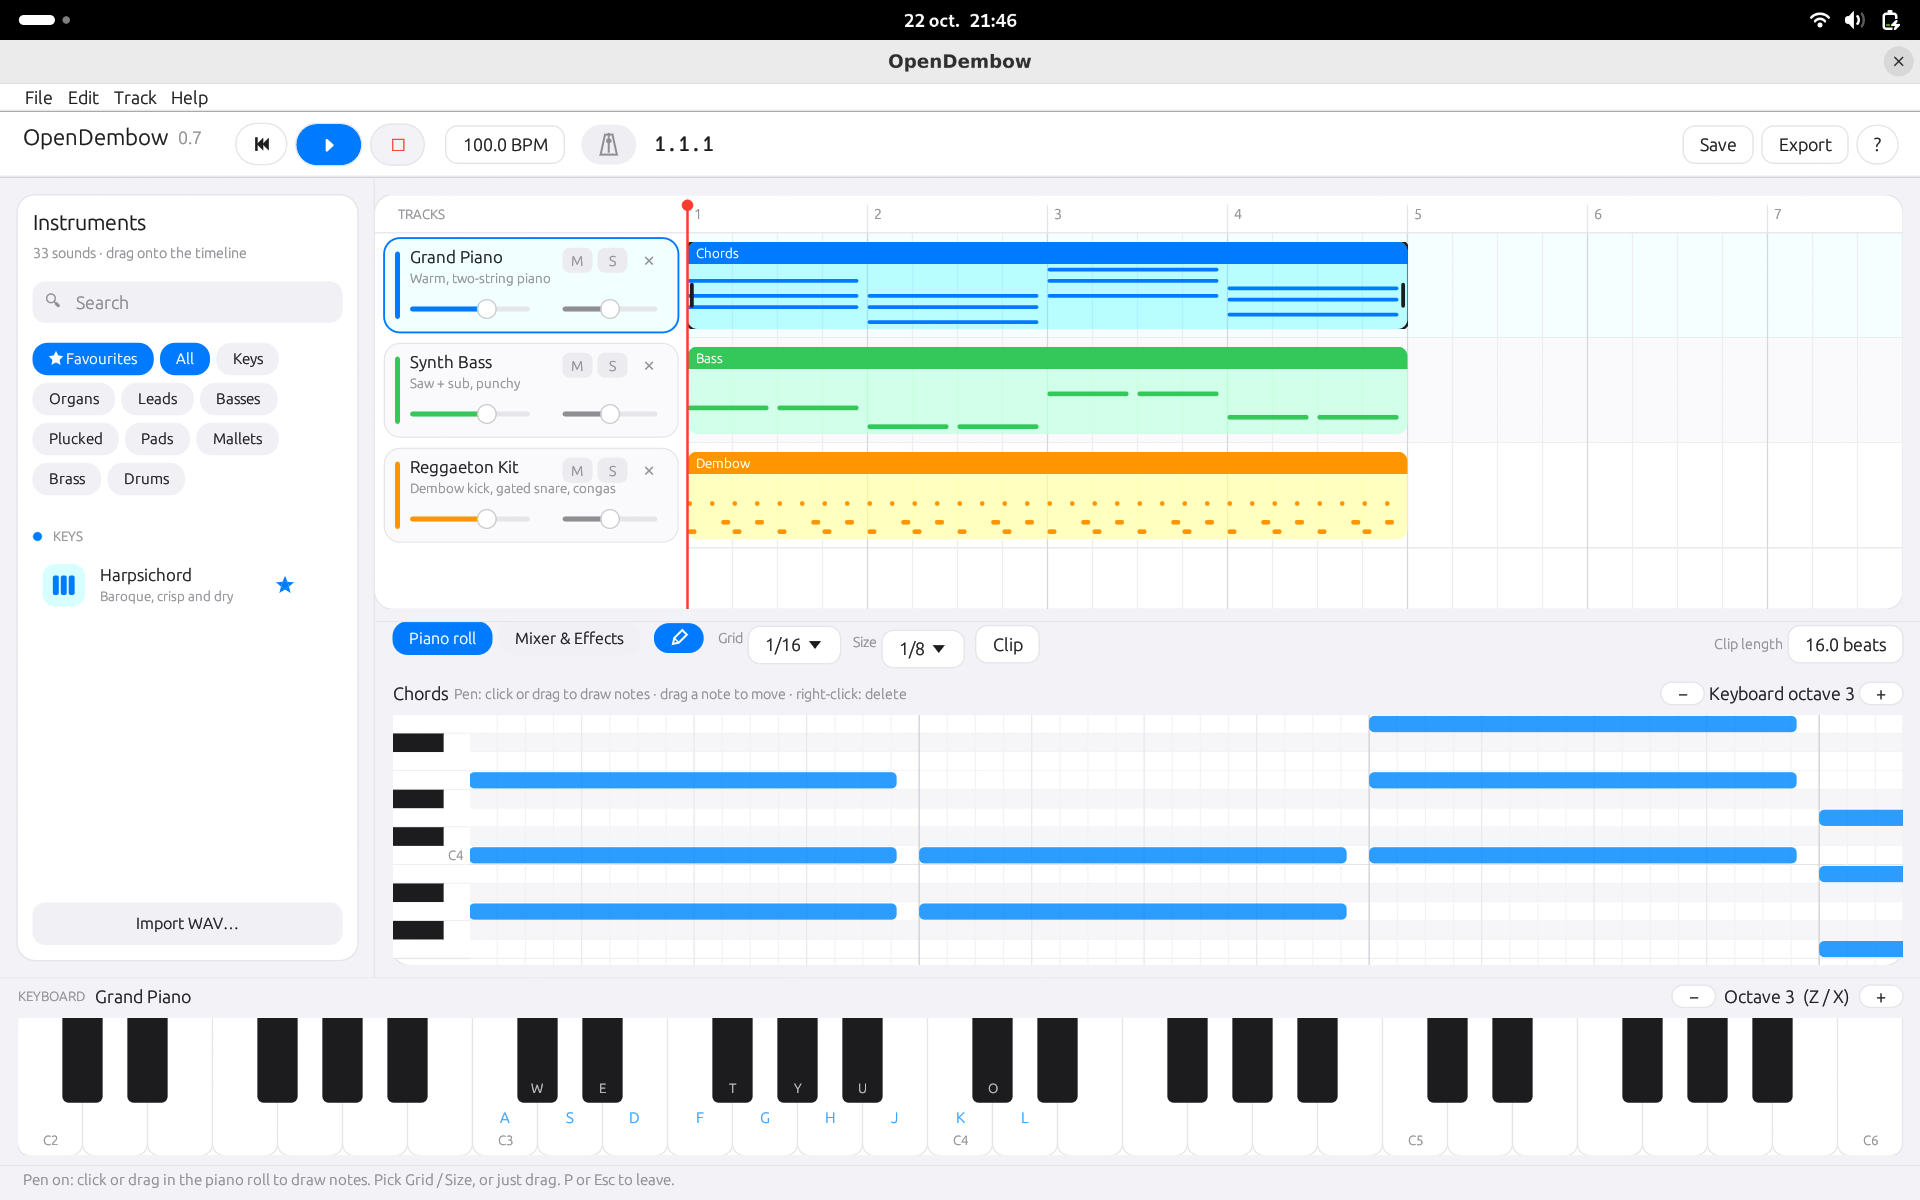
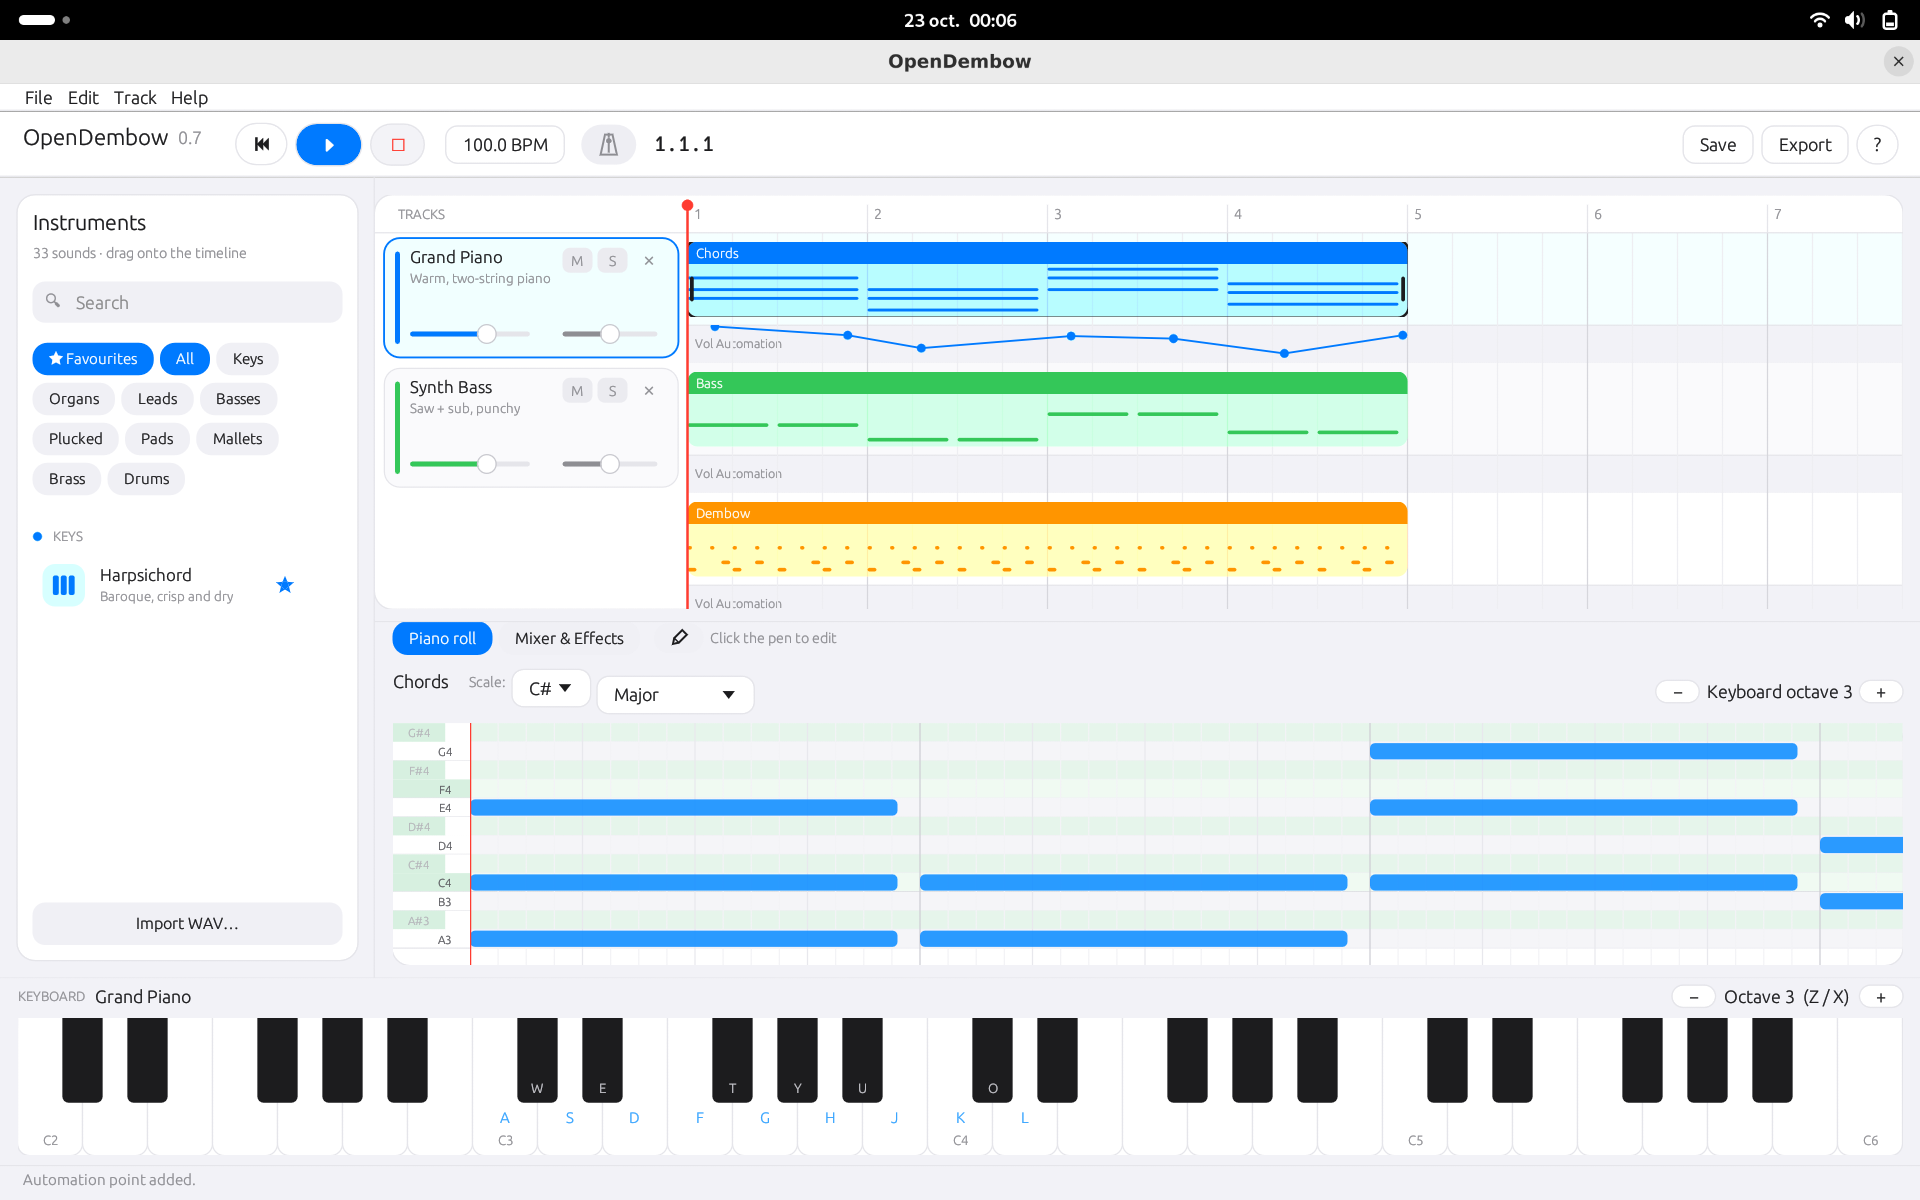
version 0.7

Changed region(s): [[0.1875, 0.2158, 1.0, 0.8017], [0.0625, 0.9558, 0.125, 0.9867], [0.5, 0.0, 0.5312, 0.0308]]

diff --git a/src/pianoroll.rs b/src/pianoroll.rs
@@ -15,8 +15,64 @@ pub fn size_label(v: f64) -> &'static str {
     SIZES.iter().find(|(_, s)| (s - v).abs() < 1e-9).map(|(l, _)| *l).unwrap_or("custom")
 }
 
+#[derive(Clone, Copy, PartialEq, Eq)]
+enum Scale {
+    All,
+    Major,
+    Minor,
+    PentatonicMajor,
+    PentatonicMinor,
+    Blues,
+}
+
+impl Scale {
+    fn name(&self) -> &'static str {
+        match self {
+            Scale::All => "All (Chromatic)",
+            Scale::Major => "Major",
+            Scale::Minor => "Minor",
+            Scale::PentatonicMajor => "Pentatonic Major",
+            Scale::PentatonicMinor => "Pentatonic Minor",
+            Scale::Blues => "Blues",
+        }
+    }
+}
+
+#[derive(Clone)]
+struct RollScaleState {
+    scale: Scale,
+    root: u8, // 0 = C, 1 = C#, etc.
+}
+
+impl Default for RollScaleState {
+    fn default() -> Self {
+        Self { scale: Scale::All, root: 0 }
+    }
+}
+
+const NOTE_NAMES: [&str; 12] = ["C", "C#", "D", "D#", "E", "F", "F#", "G", "G#", "A", "A#", "B"];
+
+fn is_in_scale(key: u8, scale: Scale, root: u8) -> bool {
+    if scale == Scale::All {
+        return true;
+    }
+    let semitone = (key as i32 - root as i32).rem_euclid(12);
+    let intervals: &[i32] = match scale {
+        Scale::All => &[0, 1, 2, 3, 4, 5, 6, 7, 8, 9, 10, 11],
+        Scale::Major => &[0, 2, 4, 5, 7, 9, 11],
+        Scale::Minor => &[0, 2, 3, 5, 7, 8, 10],
+        Scale::PentatonicMajor => &[0, 2, 4, 7, 9],
+        Scale::PentatonicMinor => &[0, 3, 5, 7, 10],
+        Scale::Blues => &[0, 3, 5, 6, 7, 10],
+    };
+    intervals.contains(&semitone)
+}
+
 impl App {
     pub fn ui_roll(&mut self, ui: &mut egui::Ui) {
+        let sid = egui::Id::new("piano_roll_scale_state");
+        let mut st: RollScaleState = ui.ctx().data_mut(|d| d.get_temp(sid)).unwrap_or_default();
+
         let Some((t, c)) = self.sel_midi() else {
             ui.add_space(8.0);
             let (rect, _) = ui.allocate_exact_size(ui.available_size(), Sense::hover());
@@ -36,15 +92,32 @@ impl App {
         let col = PALETTE[self.project.tracks[t].color % 8];
 
         ui.horizontal(|ui| {
-            ui.spacing_mut().item_spacing.x = 4.0;
+            ui.spacing_mut().item_spacing.x = 6.0;
             ui.add_space(14.0);
             ui.label(RichText::new(title).strong());
-            let hint = if self.pen {
-                "Pen: click or drag to draw notes · drag a note to move · right-click: delete"
-            } else {
-                "Double-click: add note · drag: move · drag either edge: resize · Ctrl+click: cut"
-            };
-            ui.label(RichText::new(hint).size(11.5).color(GREY));
+
+            // Scale selector
+            ui.add_space(10.0);
+            ui.label(RichText::new("Scale:").size(11.5).color(GREY));
+            egui::ComboBox::from_id_salt("scale_root_combo")
+                .width(42.0)
+                .selected_text(NOTE_NAMES[st.root as usize])
+                .show_ui(ui, |ui| {
+                    for (i, name) in NOTE_NAMES.iter().enumerate() {
+                        ui.selectable_value(&mut st.root, i as u8, *name);
+                    }
+                });
+            egui::ComboBox::from_id_salt("scale_type_combo")
+                .width(125.0)
+                .selected_text(st.scale.name())
+                .show_ui(ui, |ui| {
+                    ui.selectable_value(&mut st.scale, Scale::All, Scale::All.name());
+                    ui.selectable_value(&mut st.scale, Scale::Major, Scale::Major.name());
+                    ui.selectable_value(&mut st.scale, Scale::Minor, Scale::Minor.name());
+                    ui.selectable_value(&mut st.scale, Scale::PentatonicMajor, Scale::PentatonicMajor.name());
+                    ui.selectable_value(&mut st.scale, Scale::PentatonicMinor, Scale::PentatonicMinor.name());
+                    ui.selectable_value(&mut st.scale, Scale::Blues, Scale::Blues.name());
+                });
 
             ui.with_layout(egui::Layout::right_to_left(egui::Align::Center), |ui| {
                 if ui.small_button("+").clicked() {
@@ -106,7 +179,6 @@ impl App {
 
         // note editing
         if gr.drag_started() {
-            // use where the mouse went down, not where it is after the drag threshold
             let origin = ui.input(|i| i.pointer.press_origin()).or_else(|| gr.interact_pointer_pos());
             if let Some(p) = origin {
                 let h = self.notes_ref(t, c).and_then(|n| hit(n, p));
@@ -203,7 +275,6 @@ impl App {
                 let ctrl = ui.input(|i| i.modifiers.command);
                 let h = self.notes_ref(t, c).and_then(|n| hit(n, p));
                 match h {
-                    // Ctrl+click on a note: cut it at the (snapped) click position
                     Some((i, _)) if ctrl => {
                         let cut = (beat_at(p.x) / g).round() * g;
                         self.sel_note = Some(i);
@@ -212,7 +283,6 @@ impl App {
                         }
                     }
                     Some((i, _)) => self.sel_note = Some(i),
-                    // empty space: the pen adds with one click, the arrow needs a double-click
                     None if self.pen || gr.double_clicked() => {
                         let key = key_at(p.y).clamp(0, 127) as u8;
                         let start = ((beat_at(p.x) / g).floor() * g).max(0.0);
@@ -242,7 +312,6 @@ impl App {
                 }
             }
         }
-        // clicking the key column plays the instrument
         let hk = if kr.is_pointer_button_down_on() {
             kr.interact_pointer_pos().map(|p| key_at(p.y).clamp(0, 127) as u8)
         } else {
@@ -264,8 +333,8 @@ impl App {
         p.rect_stroke(rect, 14.0, stroke(1.0, HAIR));
         let gp = ui.painter_at(grid);
         let kp = ui.painter_at(keys_r);
-        // 0.7: on a drum track every row shows the name of its pad
         let drum = self.drum_map(t);
+
         for r in 0..rows {
             let key = top - r;
             if key < 0 {
@@ -273,37 +342,79 @@ impl App {
             }
             let y = grid.top() + r as f32 * ROW_H;
             let black = matches!(key % 12, 1 | 3 | 6 | 8 | 10);
+            let in_scale = is_in_scale(key as u8, st.scale, st.root);
+            
             let row = Rect::from_min_size(pos2(grid.left(), y), vec2(grid.width(), ROW_H));
-            gp.rect_filled(row, 0.0, if black { Color32::from_rgb(246, 246, 249) } else { Color32::WHITE });
+            
+            // Background color logic: standard chromatic when "All", Ableton-style subtle green tint when a scale is selected
+            let bg_color = if st.scale != Scale::All {
+                if in_scale {
+                    if black { Color32::from_rgb(230, 245, 235) } else { Color32::from_rgb(240, 250, 242) }
+                } else {
+                    if black { Color32::from_rgb(235, 235, 238) } else { Color32::from_rgb(245, 245, 248) }
+                }
+            } else {
+                if black { Color32::from_rgb(246, 246, 249) } else { Color32::WHITE }
+            };
+
+            gp.rect_filled(row, 0.0, bg_color);
             let line = if key % 12 == 0 { Color32::from_rgb(214, 214, 220) } else { Color32::from_rgb(240, 240, 244) };
             gp.line_segment([pos2(row.left(), row.bottom()), pos2(row.right(), row.bottom())], stroke(1.0, line));
+            
             if let Some(map) = drum {
                 if !(36..=59).contains(&key) {
-                    // outside the two drum octaves: the key wraps around
                     gp.rect_filled(row, 0.0, tint(INK, 6));
                 } else if let Some(nm) = crate::drum_names::name(map, key) {
                     gp.text(pos2(grid.left() + 8.0, row.center().y), Align2::LEFT_CENTER, nm, FontId::proportional(10.5), GREY);
                 }
             }
-            // key column
+
+            // Key column (left side piano keys)
             let down = self.down.contains(&(key as u8));
             let kr_row = Rect::from_min_size(pos2(keys_r.left(), y), vec2(KEYS_W, ROW_H));
+            
+            let key_base_color = if st.scale != Scale::All {
+                if in_scale {
+                    if down { ACCENT } else { Color32::from_rgb(215, 240, 224) }
+                } else {
+                    if down { ACCENT } else if black { Color32::from_rgb(45, 45, 50) } else { Color32::WHITE }
+                }
+            } else {
+                if down { ACCENT } else if black { Color32::from_rgb(45, 45, 50) } else { Color32::WHITE }
+            };
+
             if black {
                 kp.rect_filled(kr_row, 0.0, Color32::WHITE);
-                let bk = Rect::from_min_size(kr_row.min, vec2(KEYS_W * 0.66, ROW_H));
-                kp.rect_filled(bk, 0.0, if down { ACCENT } else { INK });
+                let bk = Rect::from_min_size(kr_row.min, vec2(KEYS_W * 0.68, ROW_H));
+                kp.rect_filled(bk, 0.0, key_base_color);
+                
+                // Show note names only when a scale is active, or standard C notation for C keys if All
+                if st.scale != Scale::All {
+                    let note_name = NOTE_NAMES[(key % 12) as usize];
+                    let octave_num = (key / 12) as i32 - 1;
+                    let full_label = format!("{}{}", note_name, octave_num);
+                    let text_color = if down { Color32::WHITE } else { Color32::from_rgb(180, 180, 185) };
+                    kp.text(pos2(bk.center().x, bk.center().y), Align2::CENTER_CENTER, full_label, FontId::proportional(9.5), text_color);
+                }
             } else {
-                kp.rect_filled(kr_row, 0.0, if down { tint(ACCENT, 80) } else { Color32::WHITE });
+                kp.rect_filled(kr_row, 0.0, key_base_color);
                 kp.line_segment([pos2(kr_row.left(), kr_row.bottom()), pos2(kr_row.right(), kr_row.bottom())], stroke(1.0, HAIR));
-            }
-            if key % 12 == 0 {
-                kp.text(pos2(kr_row.right() - 6.0, kr_row.center().y), Align2::RIGHT_CENTER, format!("C{}", key / 12 - 1), FontId::proportional(10.5), GREY);
+                
+                // Show note names when scale is active, or standard C octave labels when in "All" mode
+                if st.scale != Scale::All {
+                    let note_name = NOTE_NAMES[(key % 12) as usize];
+                    let octave_num = (key / 12) as i32 - 1;
+                    let full_label = format!("{}{}", note_name, octave_num);
+                    let text_color = if down { Color32::WHITE } else { Color32::from_rgb(90, 90, 95) };
+                    kp.text(pos2(kr_row.right() - 20.0, kr_row.center().y), Align2::CENTER_CENTER, full_label, FontId::proportional(9.5), text_color);
+                } else if key % 12 == 0 {
+                    kp.text(pos2(kr_row.right() - 15.0, kr_row.center().y), Align2::CENTER_CENTER, format!("C{}", key / 12 - 1), FontId::proportional(10.0), GREY);
+                }
             }
         }
         let clip = &self.project.tracks[t].clips[c];
         let b0 = sx.floor() as i64;
         let b1 = (sx + (grid.width() / ppb) as f64).ceil() as i64;
-        // grid subdivisions follow the chosen grid when there is room for them
         let steps = (1.0 / g).round().max(1.0) as i32;
         let show_sub = steps > 1 && ppb * (g as f32) >= 12.0;
         for b in b0..=b1 {
@@ -338,5 +449,7 @@ impl App {
         if hx >= grid.left() && hx <= grid.right() {
             gp.line_segment([pos2(hx, grid.top()), pos2(hx, grid.bottom())], stroke(2.0, RED));
         }
+
+        ui.ctx().data_mut(|d| d.insert_temp(sid, st));
     }
 }

diff --git a/README.md b/README.md
@@ -42,6 +42,8 @@ midir = "0.10"     # MIDI input (new in 0.7)
 - Menu bar (File / Edit / Track / Help) and a "?" help button (F1)
 - Save / open projects (`.dembow`), undo / redo (Edit menu, Ctrl+Z)
 - Export: mixdown WAV, stems (one WAV per track), MIDI file
+- **Volume Automation** (new): click directly in the dedicated bottom lane of any track to add automation points and draw smooth volume curves.
+- **Scale-Aware Piano Roll** (new): select a root note and scale (Major, Minor, Pentatonic, Blues) to instantly color in-scale notes with an Ableton-like subtle green tint, shade out-of-scale notes, and guide composition with key labels.
 
 ## Recording and MIDI input
 1. Select an instrument track (click its header, or drop an instrument on the timeline).
@@ -99,6 +101,7 @@ The demo song contains a **dembow** beat on the Reggaeton Kit: kick on every bea
 | `[` / `]` | Trim clip start / end to the playhead |
 | `Ctrl+C` / `Ctrl+X` / `Ctrl+V` | Copy / cut / paste the selected note or clip (pasted at the playhead) |
 | `Ctrl+D` | Duplicate clip |
+| `Click (Track automation lane)` | Add a volume automation point |
 
 Press F1 inside the app for all shortcuts.
 
@@ -144,7 +147,7 @@ Favourite instruments are not part of a project: they are stored per user in `~/
 3. Write its sound in `Voice::next` (or in `extra_voices.rs` / `drums.rs` to keep files short).
 
 ## Roadmap
-Step sequencer, audio recording, recording quantization, MIDI velocity in the live sound, automation, dark theme,
+Step sequencer, audio recording, recording quantization, MIDI velocity in the live sound, dark theme,
 sample-based instruments, instrument preview on hover, drag-to-trim clip edges, send effects.
 
 ## License
